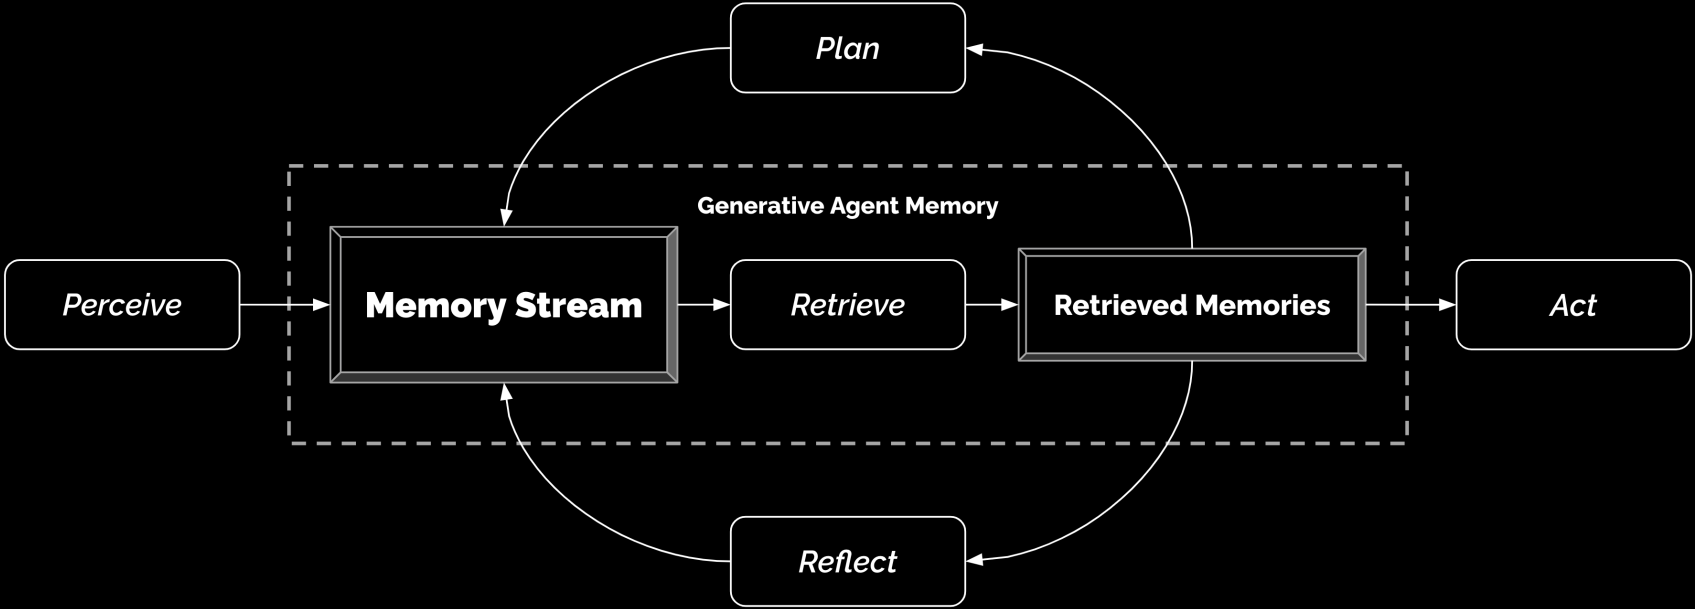
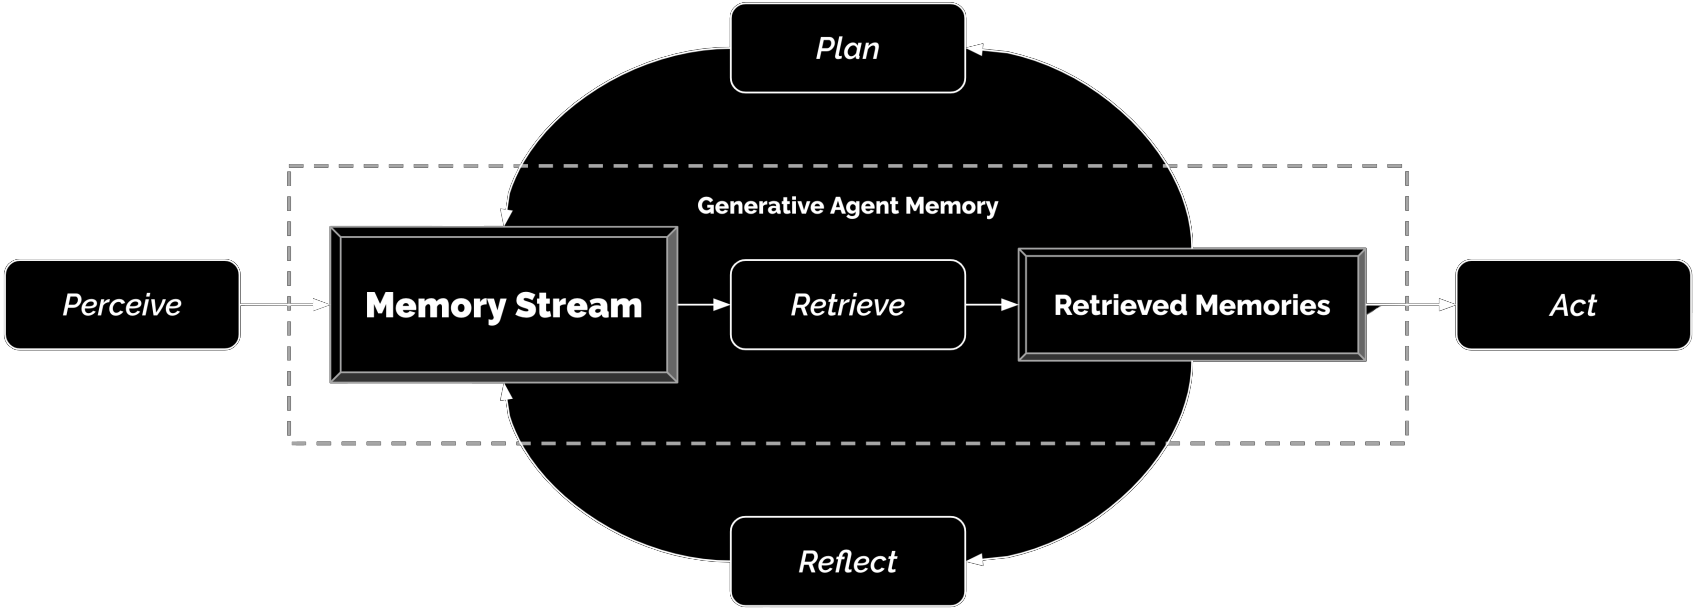
add more "black tech"

diff --git a/笔记/🖥 AI 人工智能/CV/GroundingDINO.md b/笔记/🖥 AI 人工智能/CV/GroundingDINO.md
@@ -4,15 +4,6 @@ tags:
   - Computer Vision
 ---
 
-# Grounding DINO
-
-[Paper](https://arxiv.org/pdf/2303.05499) | [grounding-dino-tiny](https://huggingface.co/IDEA-Research/grounding-dino-tiny/tree/main)
-| [grounding-dino-base](https://huggingface.co/IDEA-Research/grounding-dino-base)
-
-Open set object detection
-![img](assets/open_set.png)
-
-
 <style>
 html.dark .light-mode {
   display: none;
@@ -30,6 +21,18 @@ html:not(.dark) .dark-mode {
   display: none;
 }
 </style>
+
+# Grounding DINO
+
+[Paper](https://arxiv.org/pdf/2303.05499) | [grounding-dino-tiny](https://huggingface.co/IDEA-Research/grounding-dino-tiny/tree/main)
+| [grounding-dino-base](https://huggingface.co/IDEA-Research/grounding-dino-base)
+
+Open set object detection
+<div class="theme-image">
+  <img src="./assets/open_set.png" alt="Light Mode Image" class="light-mode">
+  <img src="./assets/dark_open_set.png" alt="Dark Mode Image" class="dark-mode">
+</div>
+
 
 Framework
 <div class="theme-image">

diff --git a/笔记/🖥 AI 人工智能/CV/Motion.md b/笔记/🖥 AI 人工智能/CV/Motion.md
@@ -4,6 +4,24 @@ tags:
   - Computer Vision
 ---
 
+<style>
+html.dark .light-mode {
+  display: none;
+}
+
+html.dark .dark-mode {
+  display: block;
+}
+
+html:not(.dark) .light-mode {
+  display: block;
+}
+
+html:not(.dark) .dark-mode {
+  display: none;
+}
+</style>
+
 # Motion
 
 https://github.com/facebookresearch/SlowFast/blob/main/INSTALL.md
@@ -14,7 +32,10 @@ https://github.com/facebookresearch/SlowFast/blob/main/INSTALL.md
 ### 原理
 
 SlowFast是Facebook一篇视频识别论文，受到灵长类动物的视网膜神经细胞种类的启发（大约80%的细胞（P-cells）以低频运作，可以识别细节信息；而大约20%的细胞（M-cells）则以高频运作，对时间的变化敏感）
-![img](assets/slow_fast.png)
+<div class="theme-image">
+  <img src="./assets/slow_fast.png" alt="Light Mode Image" class="light-mode">
+  <img src="./assets/dark_slow_fast.png" alt="Dark Mode Image" class="dark-mode">
+</div>
 
 ### Install
 ```shell

diff --git a/笔记/🖥 AI 人工智能/LLM/自主意识.md b/笔记/🖥 AI 人工智能/LLM/自主意识.md
@@ -29,7 +29,11 @@ html:not(.dark) .dark-mode {
 
 # 自主意识
 
-![img](assets/autonomous_agent.png)
+<div class="theme-image">
+  <img src="./assets/autonomous_agent.png" alt="Light Mode Image" class="light-mode">
+  <img src="./assets/dark_autonomous_agent.png" alt="Dark Mode Image" class="dark-mode">
+</div>
+
 *A unified framework for the architecture design of LLM-based autonomous agent*^[A Survey on Large Language Model based
 Autonomous Agents]
 
